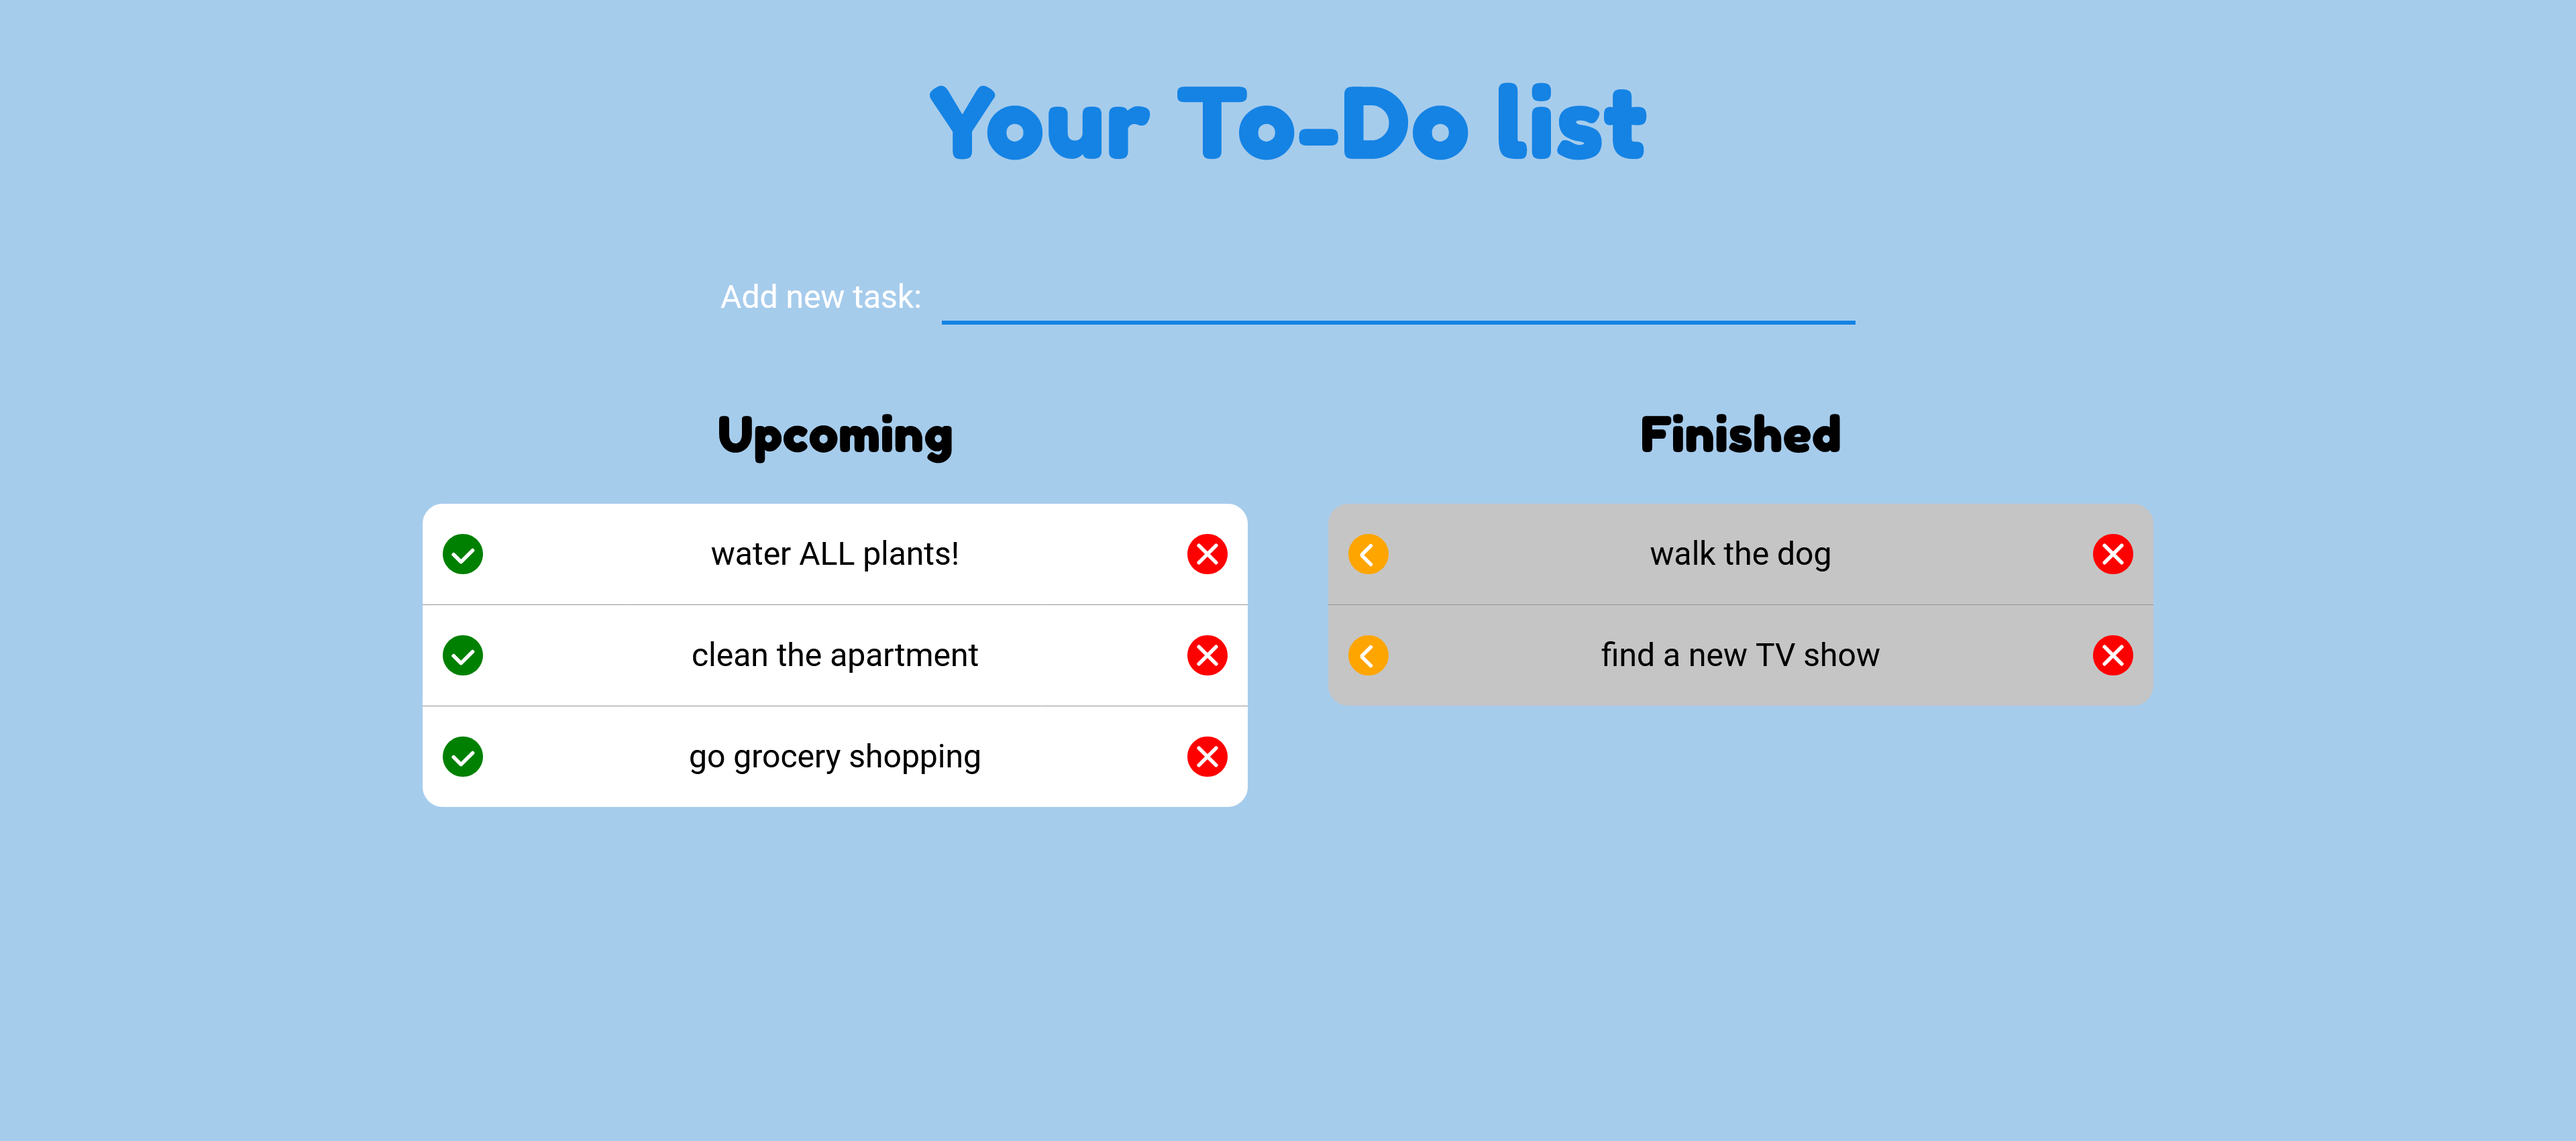
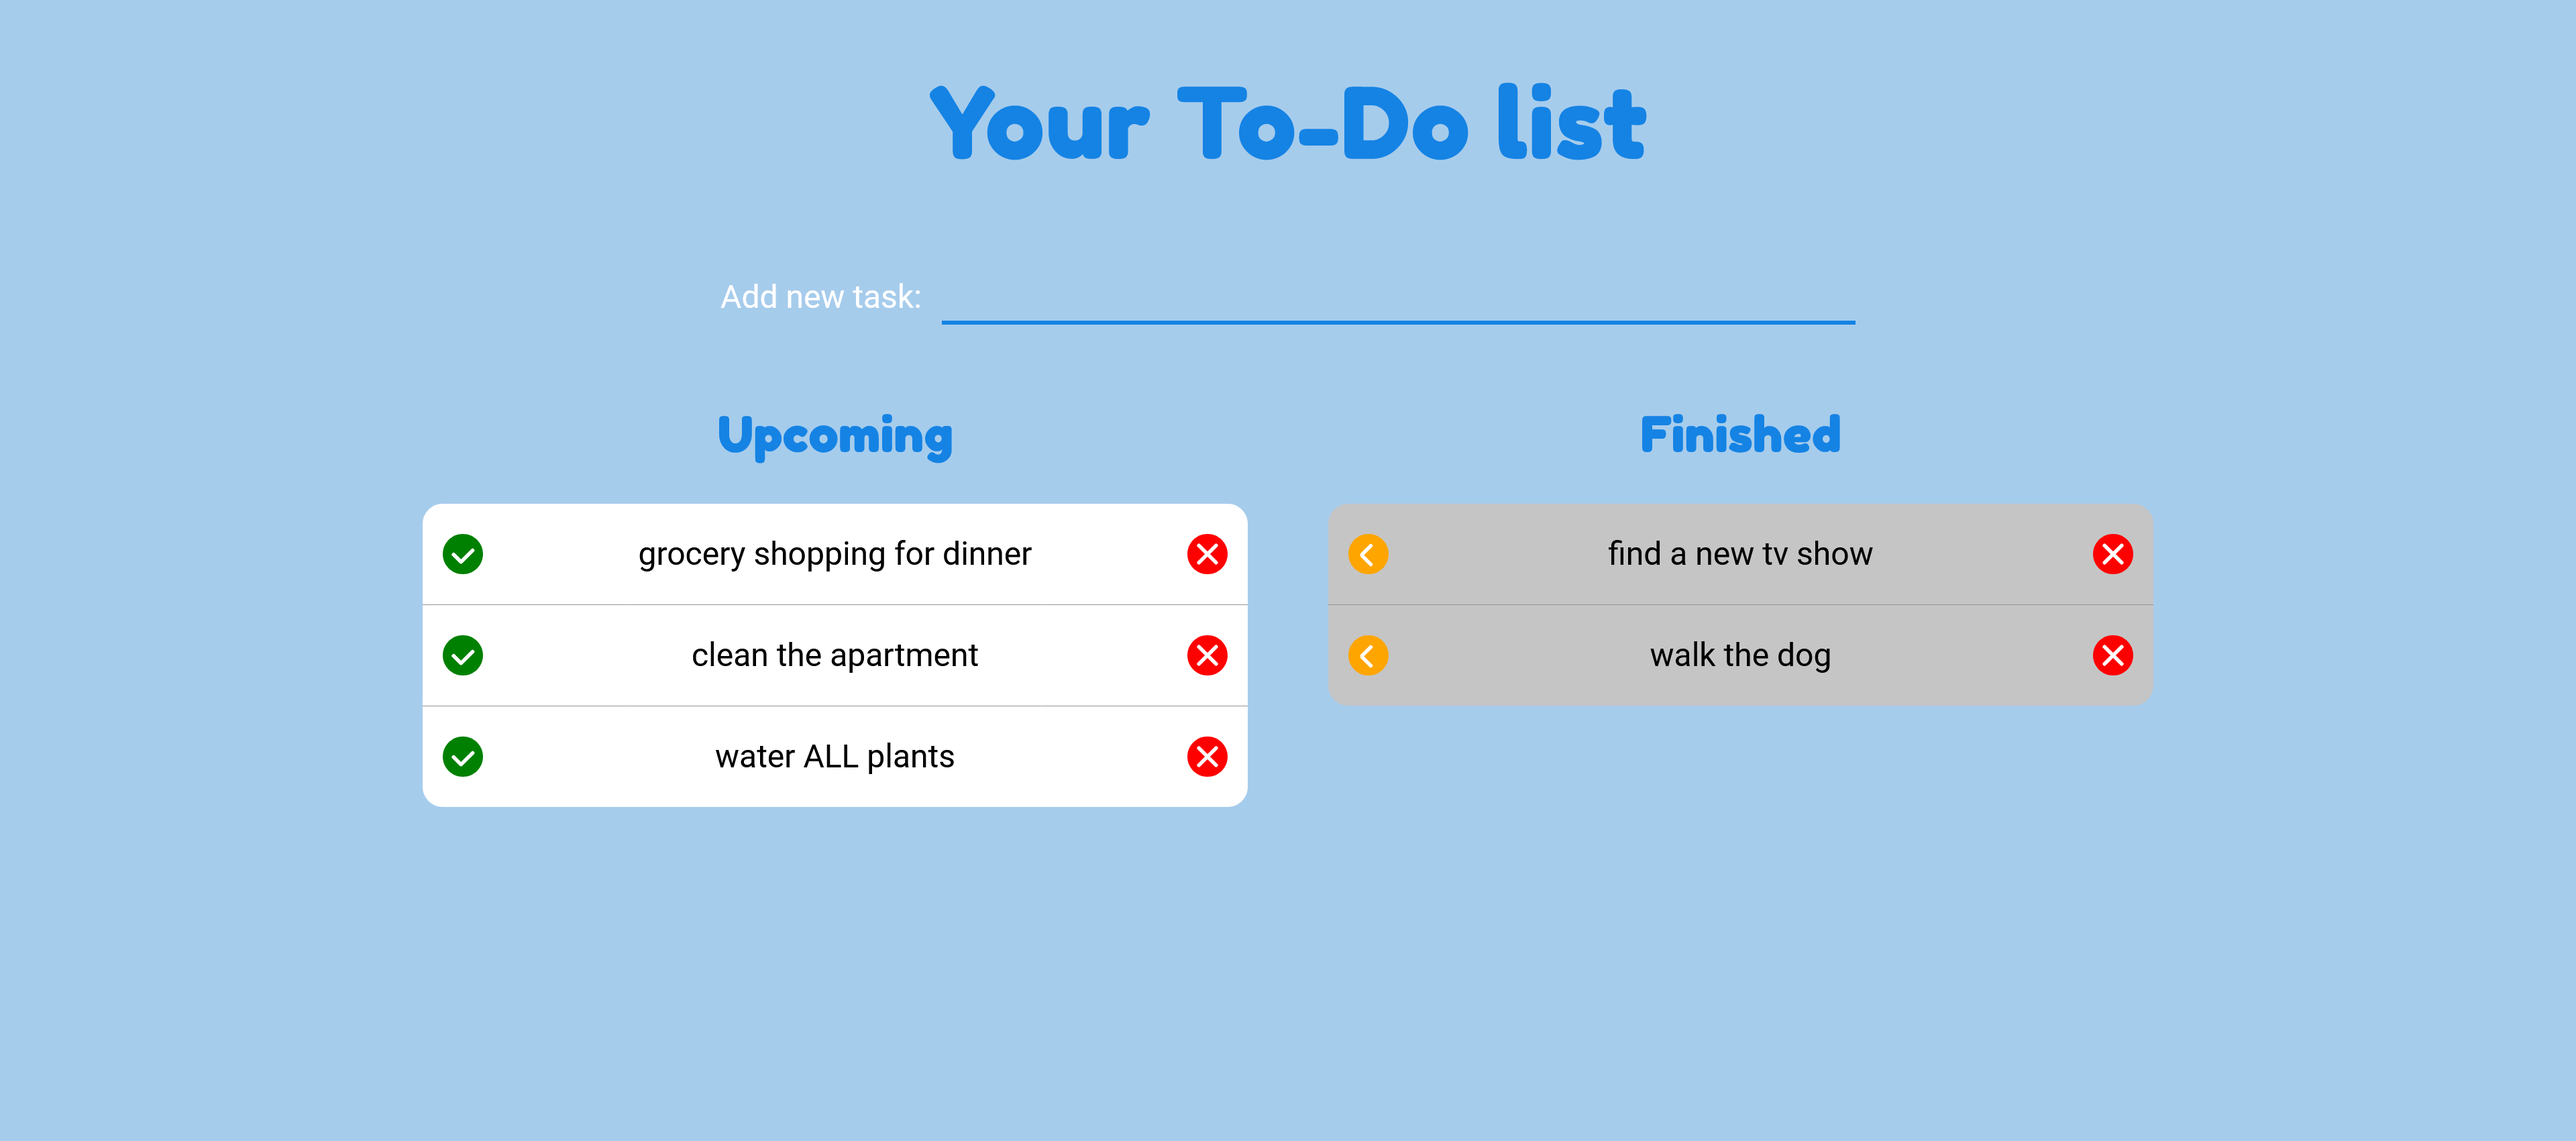
Added localstorage functionality

diff --git a/src/App.js b/src/App.js
@@ -5,15 +5,8 @@ import Done from "./Done";
 
 class App extends React.Component {
   state = {
-    todos: [
-      {id:1, content: "go grocery shopping"},
-      {id:2, content: "clean the apartment"},
-      {id:3, content: "water ALL plants!"}
-    ],
-    dones: [
-      {id:4, content: "find a new TV show"},
-      {id:9, content: "walk the dog"}
-    ]
+    todos: window.localStorage.getItem('todos') ? JSON.parse(window.localStorage.getItem('todos')) : [],
+    dones: window.localStorage.getItem('dones') ? JSON.parse(window.localStorage.getItem('dones')) : [],
   }
   deleteTodo = (id) => {
     const todos = this.state.todos.filter(todo => {
@@ -22,6 +15,7 @@ class App extends React.Component {
     this.setState({
       todos: todos
     })
+    window.localStorage.setItem('todos', JSON.stringify(todos));
   }
   deleteDone = (id) => {
     const dones = this.state.dones.filter(done => {
@@ -30,6 +24,7 @@ class App extends React.Component {
     this.setState({
       dones: dones
     })
+    window.localStorage.setItem('dones', JSON.stringify(dones));
   }
   addTodo = (todo) => {
     todo.id = Math.random();
@@ -37,6 +32,7 @@ class App extends React.Component {
     this.setState({
       todos: todos
     })
+    window.localStorage.setItem('todos', JSON.stringify(todos));
   }
   moveToDone = (todo) => {
     let dones = [...this.state.dones, todo];
@@ -44,6 +40,7 @@ class App extends React.Component {
       dones: dones
     })
     this.deleteTodo(todo.id)
+    window.localStorage.setItem('dones', JSON.stringify(dones));
   }
   moveToTodo = (done) => {
     let todos = [...this.state.todos, done];
@@ -51,6 +48,7 @@ class App extends React.Component {
       todos: todos
     })
     this.deleteDone(done.id)
+    window.localStorage.setItem('todos', JSON.stringify(todos));
   }
   render(){
     return (

diff --git a/src/index.css b/src/index.css
@@ -16,6 +16,9 @@ h1{
   color: rgb(21, 131, 228);
   font-size: 3rem;
 }
+h2{
+  color: rgb(21, 131, 228);
+}
 .center{
   text-align: center;
 }
